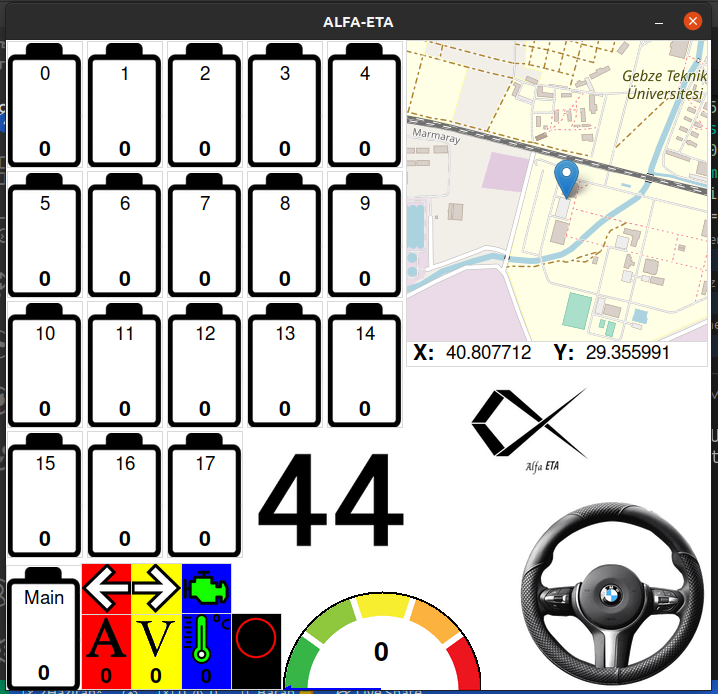
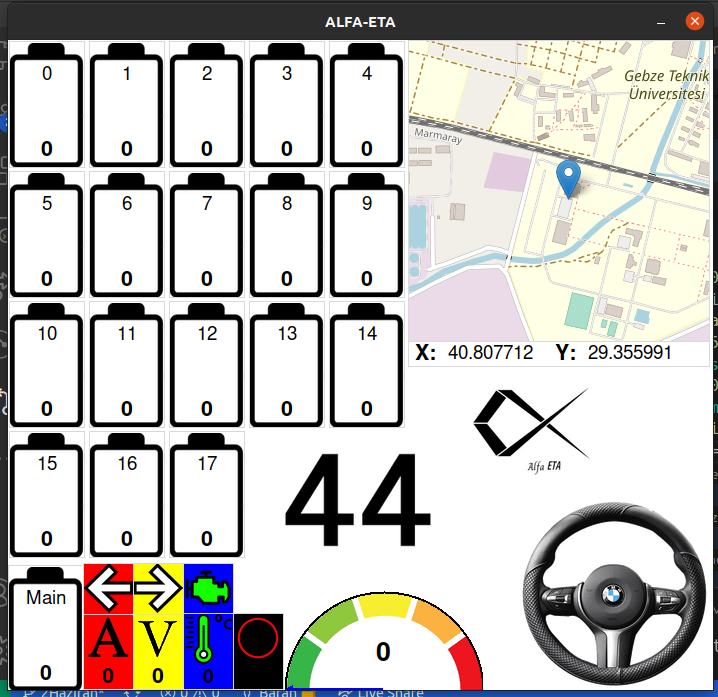
Beta 2

Changed region(s): [[0.0, 0.0, 1.0, 1.0]]

diff --git a/Map/map.html b/Map/map.html
@@ -23,7 +23,7 @@
             <meta name="viewport" content="width=device-width,
                 initial-scale=1.0, maximum-scale=1.0, user-scalable=no" />
             <style>
-                #map_193804681704403b9a53362f1613aece {
+                #map_a4255f0654e74f2981ccefa450105b68 {
                     position: relative;
                     width: 100.0%;
                     height: 100.0%;
@@ -35,17 +35,17 @@
 </head>
 <body>    
     
-            <div class="folium-map" id="map_193804681704403b9a53362f1613aece" ></div>
+            <div class="folium-map" id="map_a4255f0654e74f2981ccefa450105b68" ></div>
         
 </body>
 <script>    
     
-            var map_193804681704403b9a53362f1613aece = L.map(
-                "map_193804681704403b9a53362f1613aece",
+            var map_a4255f0654e74f2981ccefa450105b68 = L.map(
+                "map_a4255f0654e74f2981ccefa450105b68",
                 {
-                    center: [40.807712, 29.355991],
+                    center: [40.806649, 29.359085],
                     crs: L.CRS.EPSG3857,
-                    zoom: 15,
+                    zoom: 17,
                     zoomControl: false,
                     preferCanvas: false,
                 }
@@ -55,15 +55,15 @@
 
         
     
-            var tile_layer_2bbd04b66bcf411da4b4562848d83d6e = L.tileLayer(
+            var tile_layer_a687efe5a2bb476ba23ab0d17368efcd = L.tileLayer(
                 "https://{s}.tile.openstreetmap.org/{z}/{x}/{y}.png",
                 {"attribution": "Data by \u0026copy; \u003ca href=\"http://openstreetmap.org\"\u003eOpenStreetMap\u003c/a\u003e, under \u003ca href=\"http://www.openstreetmap.org/copyright\"\u003eODbL\u003c/a\u003e.", "detectRetina": false, "maxNativeZoom": 18, "maxZoom": 18, "minZoom": 0, "noWrap": false, "opacity": 1, "subdomains": "abc", "tms": false}
-            ).addTo(map_193804681704403b9a53362f1613aece);
+            ).addTo(map_a4255f0654e74f2981ccefa450105b68);
         
     
-            var marker_3eabd55f910c40bda0301d0dec4cdaec = L.marker(
-                [40.807712, 29.355991],
+            var marker_e0320a0416944818a7df02f6faf708b7 = L.marker(
+                [40.806649, 29.359085],
                 {}
-            ).addTo(map_193804681704403b9a53362f1613aece);
+            ).addTo(map_a4255f0654e74f2981ccefa450105b68);
         
 </script>

diff --git a/main.py b/main.py
@@ -87,7 +87,7 @@ class Logo:
             obj.window, height=100, width=150, background="white", highlightthickness=0)
         self.numberPhoto = PhotoImage(file="Images/44.png")
         self.numberCanvas.create_image(75, 50, image=self.numberPhoto, anchor=CENTER)
-        self.numberCanvas.place(x=250, y=410)
+        self.numberCanvas.place(x=275, y=410)
 class Signals:
     def __init__(self, obj):
         # Current,Voltage,Engine,Left,Right,Tempereture
@@ -206,7 +206,7 @@ class Battery:
         self.charge = 0
 class Location:
     def __init__(self, obj):
-        self.location = [40.9016, 29.2258]  # x,y
+        self.location = [40.806649, 29.359085]  # x,y
         self.locationCanvas = Canvas(obj.window, height=25, width=300,
                                      background="white", highlightthickness=1)
         self.locationCanvas.place(x=400, y=300)
@@ -226,7 +226,7 @@ class Location:
     def updateLoc(self,obj,loc):
         while(getFlag()==0):
             mapLoc = folium.Map(location=loc.location,
-                            tiles="OpenStreetMap", zoom_start=15, zoom_control=False)
+                            tiles="OpenStreetMap", zoom_start=17, zoom_control=False)
             folium.Marker(location=loc.location).add_to(mapLoc)
             global directory
             mapLoc.save(directory+"/Map/map.html")

diff --git a/README.md b/README.md
@@ -1,19 +1,15 @@
 # Alfa-ETA_User_Interface
 ![alt text](https://github.com/baransolmaz/Alfa-ETA_User_Interface/blob/2Haziran/Current/19.png)
-## Download
-```bash 
-  npm install my-project
-  cd my-project
-``` 
 ## Requirements
 
 Requirements/Libraries for Interface:
 `Python 3.8.10`
 `Tkinter`
 `Folium`
-`Selenium`
-`PIL`
-`Threading`
+`Selenium - Chrome Webdriver`
+`Pillow`
+`Thread6`
 `Serial`
 
 ![Logo](https://github.com/baransolmaz/Alfa-ETA_User_Interface/blob/main/Images/logo.png)
+![Logo](https://github.com/baransolmaz/Alfa-ETA_User_Interface/blob/main/Images/grok.png)
